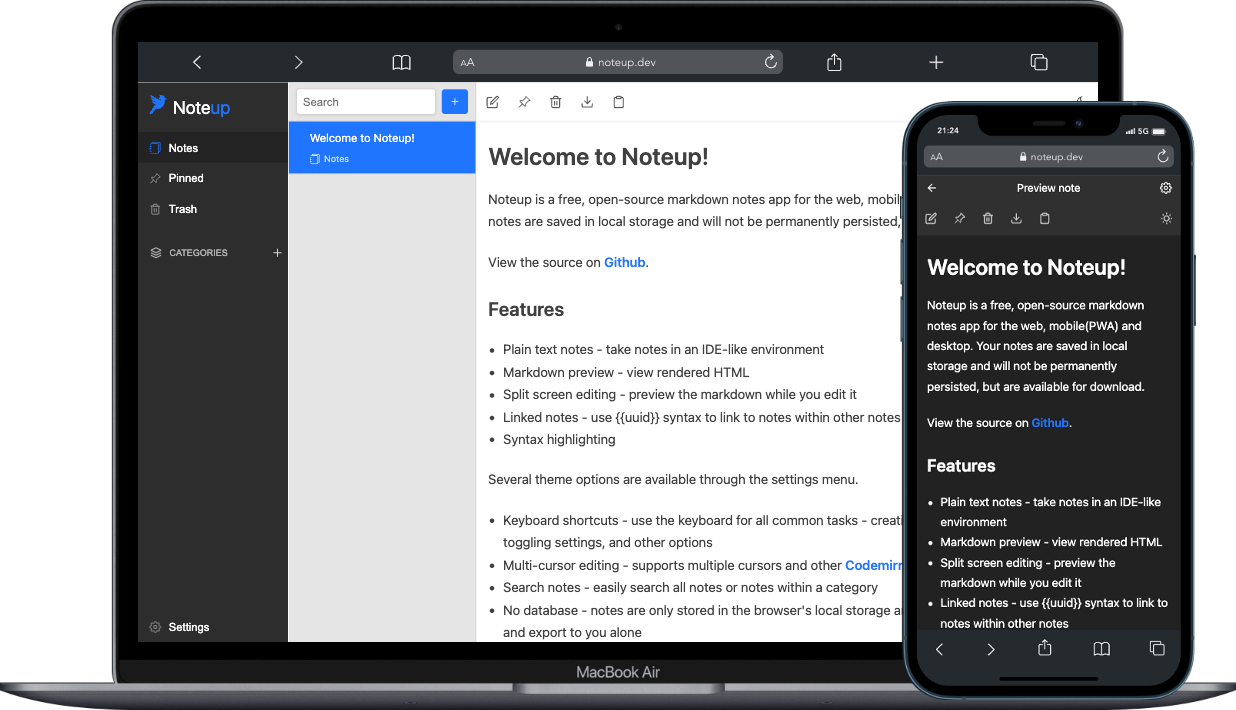
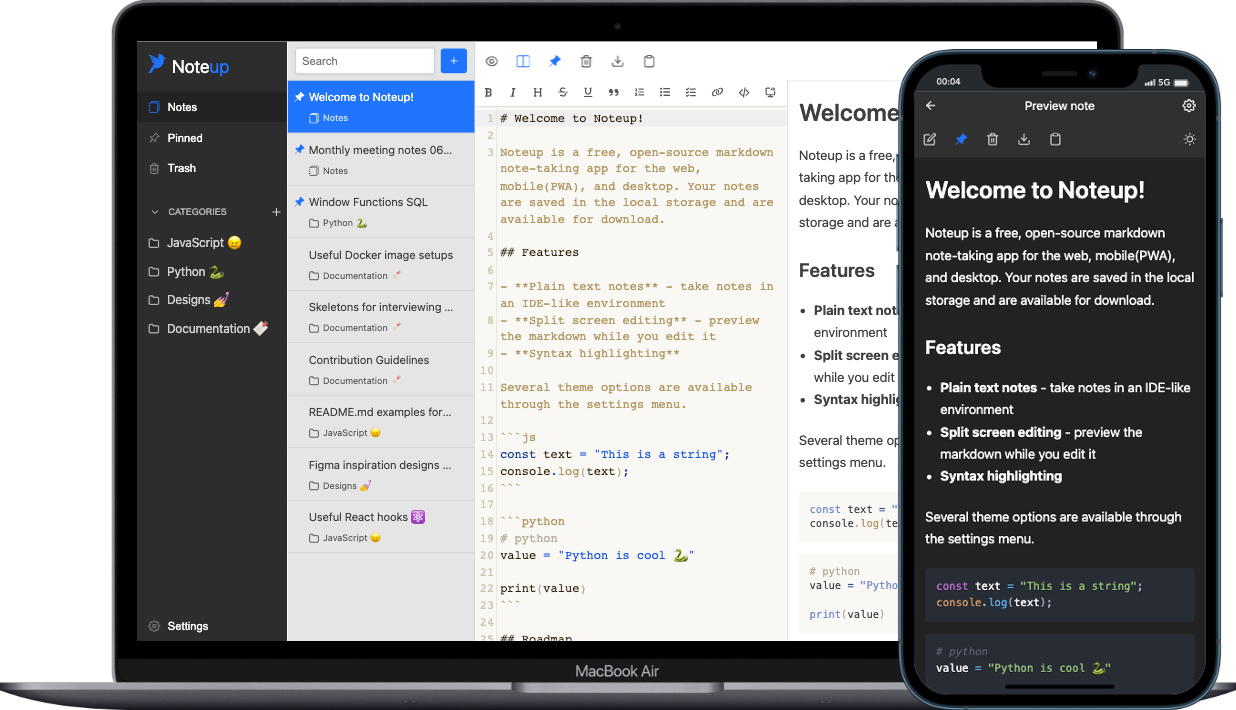
Update mockups, update default note (#24)

diff --git a/src/utils/constants.ts b/src/utils/constants.ts
@@ -59,7 +59,7 @@ export const emptyListMessage = {
 
 export const defaultNote = {
   id: "default-note",
-  text: '# Welcome to Noteup!\n\nNoteup is a free, open-source markdown notes app for the web, mobile(PWA) and desktop. Your notes are saved in local storage and will not be permanently persisted, but are available for download.\n\nView the source on [Github](https://github.com/elementsinteractive/Noteup).\n\n## Features\n\n- **Plain text notes** - take notes in an IDE-like environment\n- **Markdown preview** - view rendered HTML\n- **Split screen editing** - preview the markdown while you edit it\n- **Linked notes** - use {{uuid}} syntax to link to notes within other notes\n- **Syntax highlighting** \n\nSeveral theme options are available through the settings menu.\n\n- **Keyboard shortcuts** - use the keyboard for all common tasks - creating notes and categories, toggling settings, and other options\n- **Multi-cursor editing** - supports multiple cursors and other [Codemirror](https://codemirror.net/) options\n- **Search notes** - easily search all notes or notes within a category\n- **No database** - notes are only stored in the browser\'s local storage and are available for download and export to you alone\n- **No tracking or analytics**\n\nEasily insert your code blocks into your notes\n\n```js\n// js\nconst text = "This is a string";\n\nconsole.log(text);\n```\n\n```python\n# python\nfact = "JavaScript is amazing!"\n\nprint(fact)\n```\n\n## Roadmap\n\n- [ ] Tandem scroll for side-by-side editing\n- [ ] Add a page with markdown help commands\n- [ ] Note sharing\n- [ ] Account sync\n- [ ] Cross-platform sync\n- [ ] Extra download options (like `.pdf`)\n- [ ] Quick command bar (WYSIWYG style)\n\n\n\n',
+  text: '# Welcome to Noteup!\n\nNoteup is a free, open-source GitHub-flavored markdown note-taking app for the web, mobile(PWA) and desktop. Your notes are saved in the local storage but are available for download.\n\nView the source on [Github](https://github.com/elementsinteractive/Noteup).\n\n## Features\n\n- **Plain text notes** - take notes in an IDE-like environment\n- **Markdown preview** - view rendered HTML\n- **Split screen editing** - preview the markdown while you edit it\n- **Linked notes** - use {{uuid}} syntax to link to notes within other notes\n- **Syntax highlighting** \n\nSeveral theme options are available through the settings menu.\n\n- **Keyboard shortcuts** - use the keyboard for all common tasks - creating notes and categories, toggling settings, and other options\n- **Multi-cursor editing** - supports multiple cursors and other [Codemirror](https://codemirror.net/) options\n- **Search notes** - easily search all notes or notes within a category\n- **No tracking or analytics**\n\nEasily insert your code blocks into your notes\n\n```js\nconst text = "This is a string";\n\nconsole.log(text);\n```\n\n```python\nfact = "JavaScript is amazing!"\n\nprint(fact)\n```\n\n## Roadmap\n\n- [x] Tandem scroll for side-by-side editing\n- [x] Quick command bar (WYSIWYG style)\n- [x] Add a landing page\n- [ ] Add a page with markdown help commands\n- [ ] Note sharing\n- [ ] Account sync\n- [ ] Cross-platform sync\n- [ ] Extra download options (like `.pdf`)\n\n\n\n',
   created: "",
   lastUpdated: "",
 };

diff --git a/src/utils/enums.ts b/src/utils/enums.ts
@@ -64,9 +64,7 @@ export enum LabelText {
   SETTINGS = "Settings",
   SYNC_NOTES = "Sync notes",
   TRASH = "Trash",
-  WELCOME_TO_NOTEUP = "Welcome to Noteup!",
   RENAME = "Rename category",
-  ADD_CONTENT_NOTE = "Please add content to this new note to access the menu options.",
   DOWNLOAD_ALL_NOTES = "Download all notes",
   BACKUP_ALL_NOTES = "Export backup",
   IMPORT_BACKUP = "Import backup",

diff --git a/README.md b/README.md
@@ -8,11 +8,11 @@
 
 </h2>
 
-<p align="center">A web and desktop markup notes app.</p>
+<p align="center">A Web and Desktop markup note-taking app.</p>
 
 ![Screenshot](./assets/mockups.png)
 
-[Noteup](https://noteup.dev/) is a free, open-source markup notes app for the web, mobile(PWA) and desktop. Your notes are saved in the local storage, but are available for import/export.
+[Noteup](https://noteup.dev/) is a free, open-source Github-flavored markup note-taking app for the web, mobile(PWA) and desktop. Your notes are saved in the local storage but are available for import/export.
 
 ## Get started
 
@@ -43,7 +43,7 @@ yarn tauri build
 
 - [x] Tandem scroll for side-by-side editing
 - [x] Quick command bar (WYSIWYG style)
-- [ ] Add landing page to the website
+- [x] Add a landing page to the website
 - [ ] Add a page with markdown help commands
 - [ ] Note sharing
 - [ ] Account sync
@@ -52,7 +52,7 @@ yarn tauri build
 
 ## Contributing
 
-This is an open source project, and contributions are welcomed and appreciated. Open issues, bugs, and enhancements are all listed on the [issues](https://github.com/elements/noteup/issues) tab and labeled accordingly.
+This is an open-source project, and contributions are welcomed and appreciated. Open issues, bugs, and enhancements are all listed on the [issues](https://github.com/elements/noteup/issues) tab and labeled accordingly.
 
 View [CONTRIBUTING.md](CONTRIBUTING.md) to learn about the style guide, folder structure, scripts, and how to contribute.
 
@@ -62,7 +62,7 @@ This project was visually inspired by another markdown note app called [Takenote
 
 ## Contributors ✨
 
-Thanks goes to these wonderful people ([emoji key](https://allcontributors.org/docs/en/emoji-key)):
+Thanks go to these wonderful people ([emoji key](https://allcontributors.org/docs/en/emoji-key)):
 
 <!-- ALL-CONTRIBUTORS-LIST:START - Do not remove or modify this section -->
 <!-- prettier-ignore-start -->
